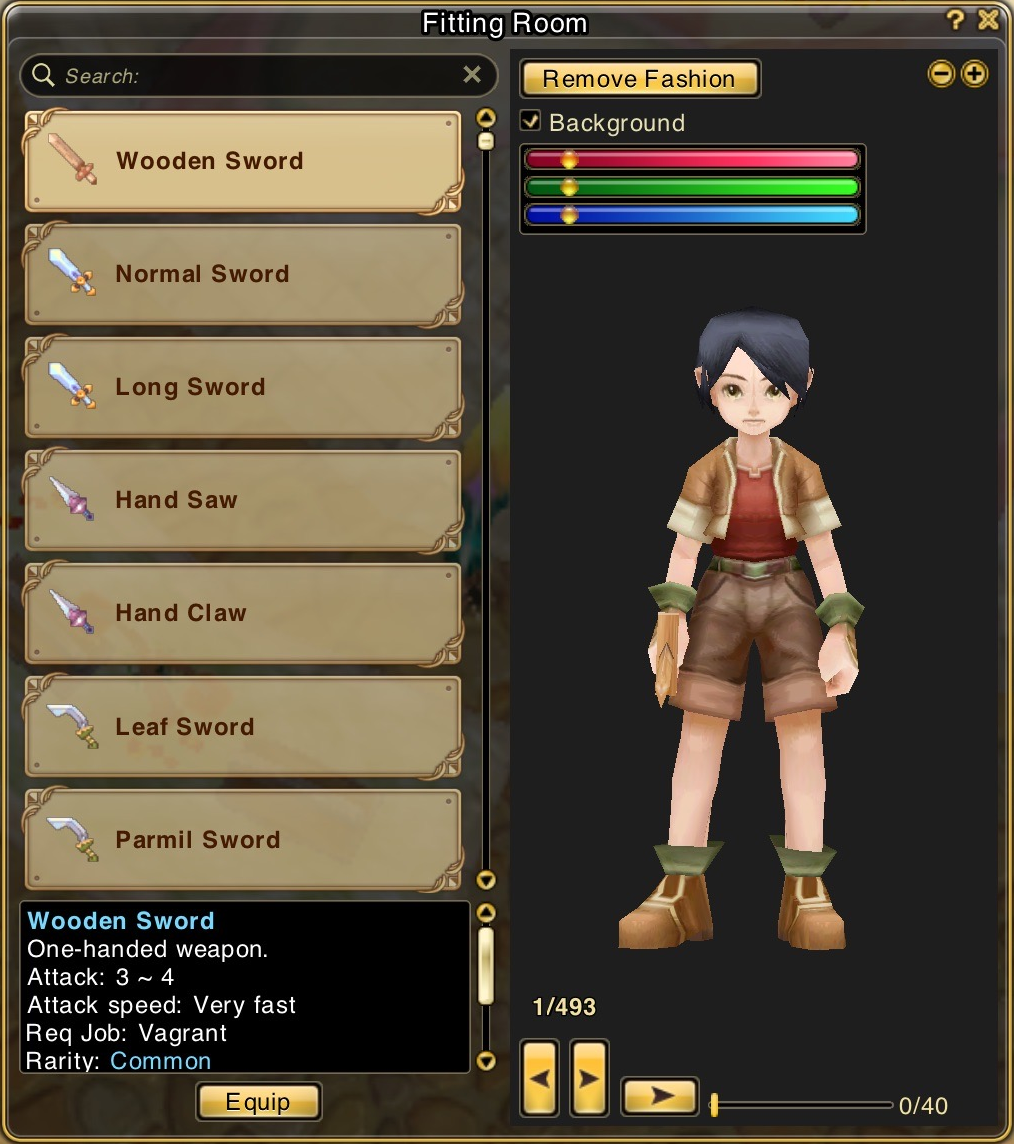
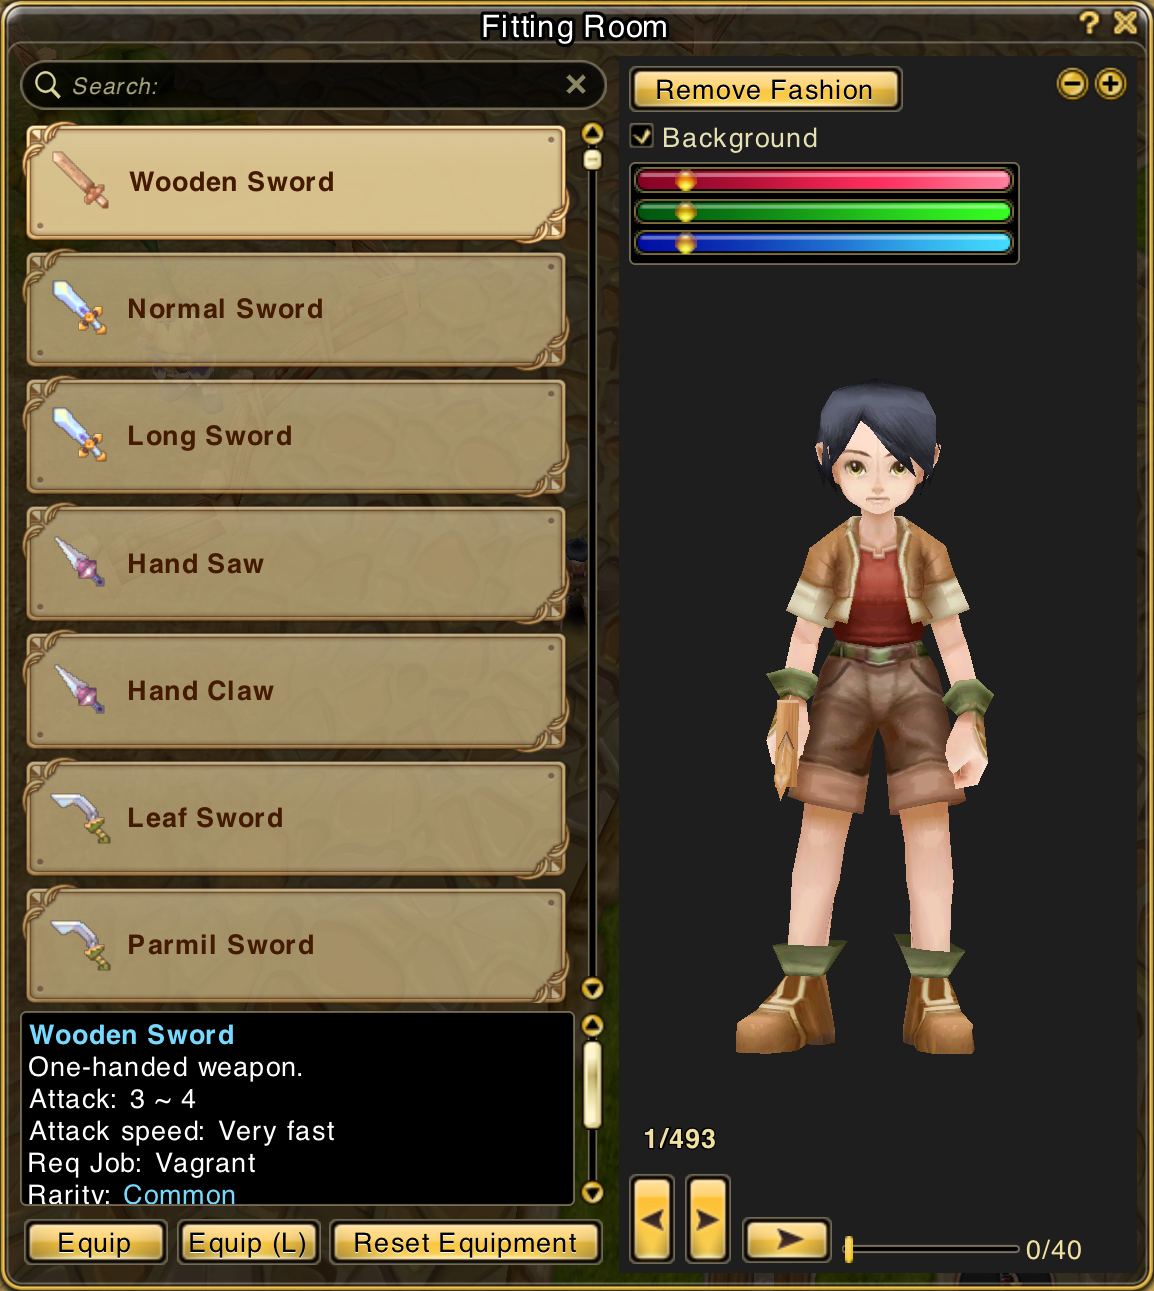
feat: update fitting room

Changed region(s): [[0.0, 0.0, 1.0, 1.0], [0.6114, 0.2753, 0.856, 0.8566]]

diff --git a/README.md b/README.md
@@ -563,6 +563,10 @@ This Extended is also valid for that specific season when it is purchased.
 
 * A new window has been added that players may access through the start menu → Helper → Fitting Room. This window allows players to preview items on their character, see item stats, and play around with animations.
 
+* Added a Reset Equipment button to the Fitting Room. **[Minor Fixes after 3/14 Maintenance](https://universe.flyff.com/news/minorfixesmarch14 "Minor Fixes after 3/14 Maintenance")**
+
+* Added a Equip (L) button to the Fitting Room for Blade weapons. **[Minor Fixes after 3/14 Maintenance](https://universe.flyff.com/news/minorfixesmarch14 "Minor Fixes after 3/14 Maintenance")**
+
 <div align="center"><img src="./system/fitting_room.png" alt="fitting_room.png" width="400"/></div>
 
 <div align="center"><img src="./system/fitting_room_interface.png" alt="fitting_room_interface.png" width="500"/></div>
